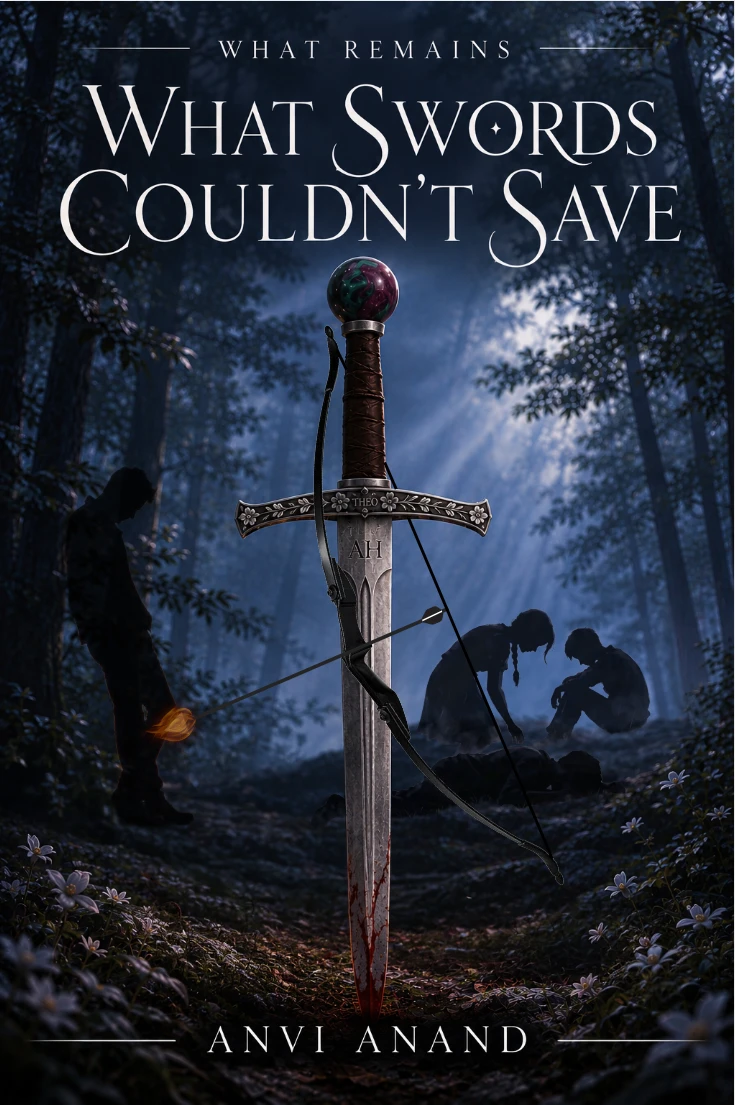
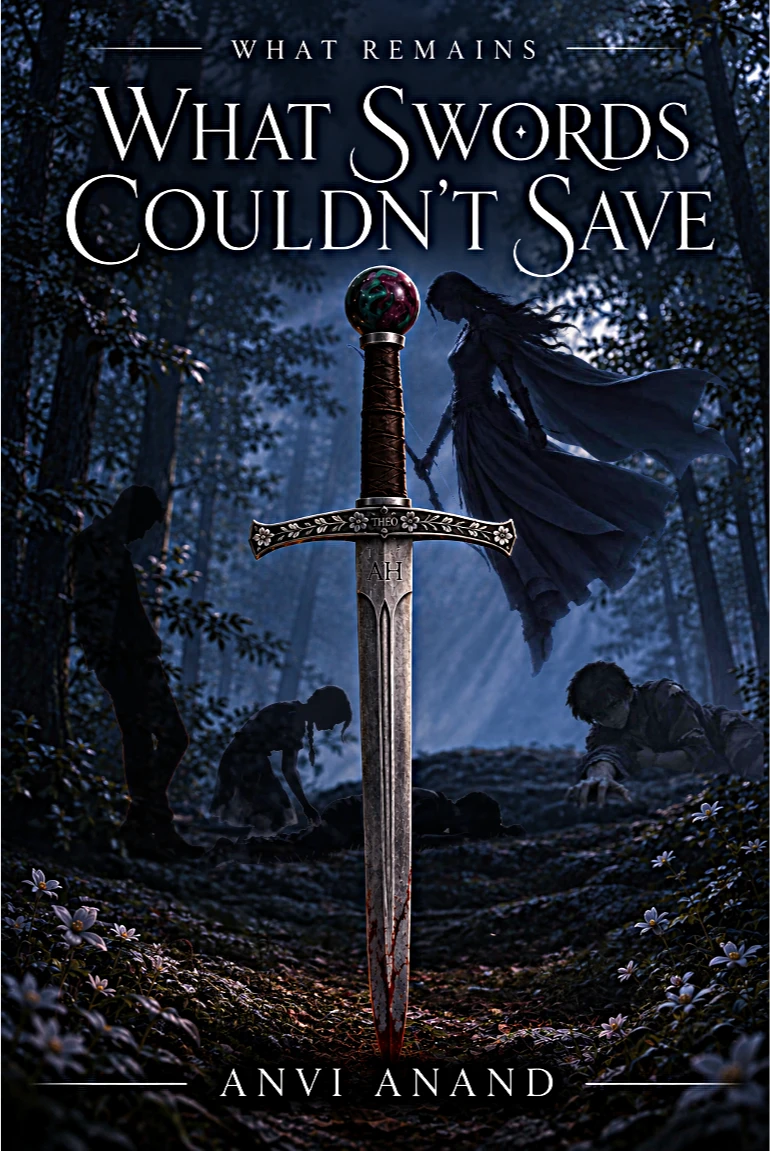
Update book cover and make it larger

diff --git a/index.html b/index.html
@@ -53,7 +53,7 @@
     .about p { font-size: var(--body); line-height: 1.6; margin-top: 1rem; }
     .cover {
       float: left;
-      width: 34%;
+      width: 42%;
       height: auto;
       margin: 1rem 2rem 1rem 0;
       border-radius: 4px;
